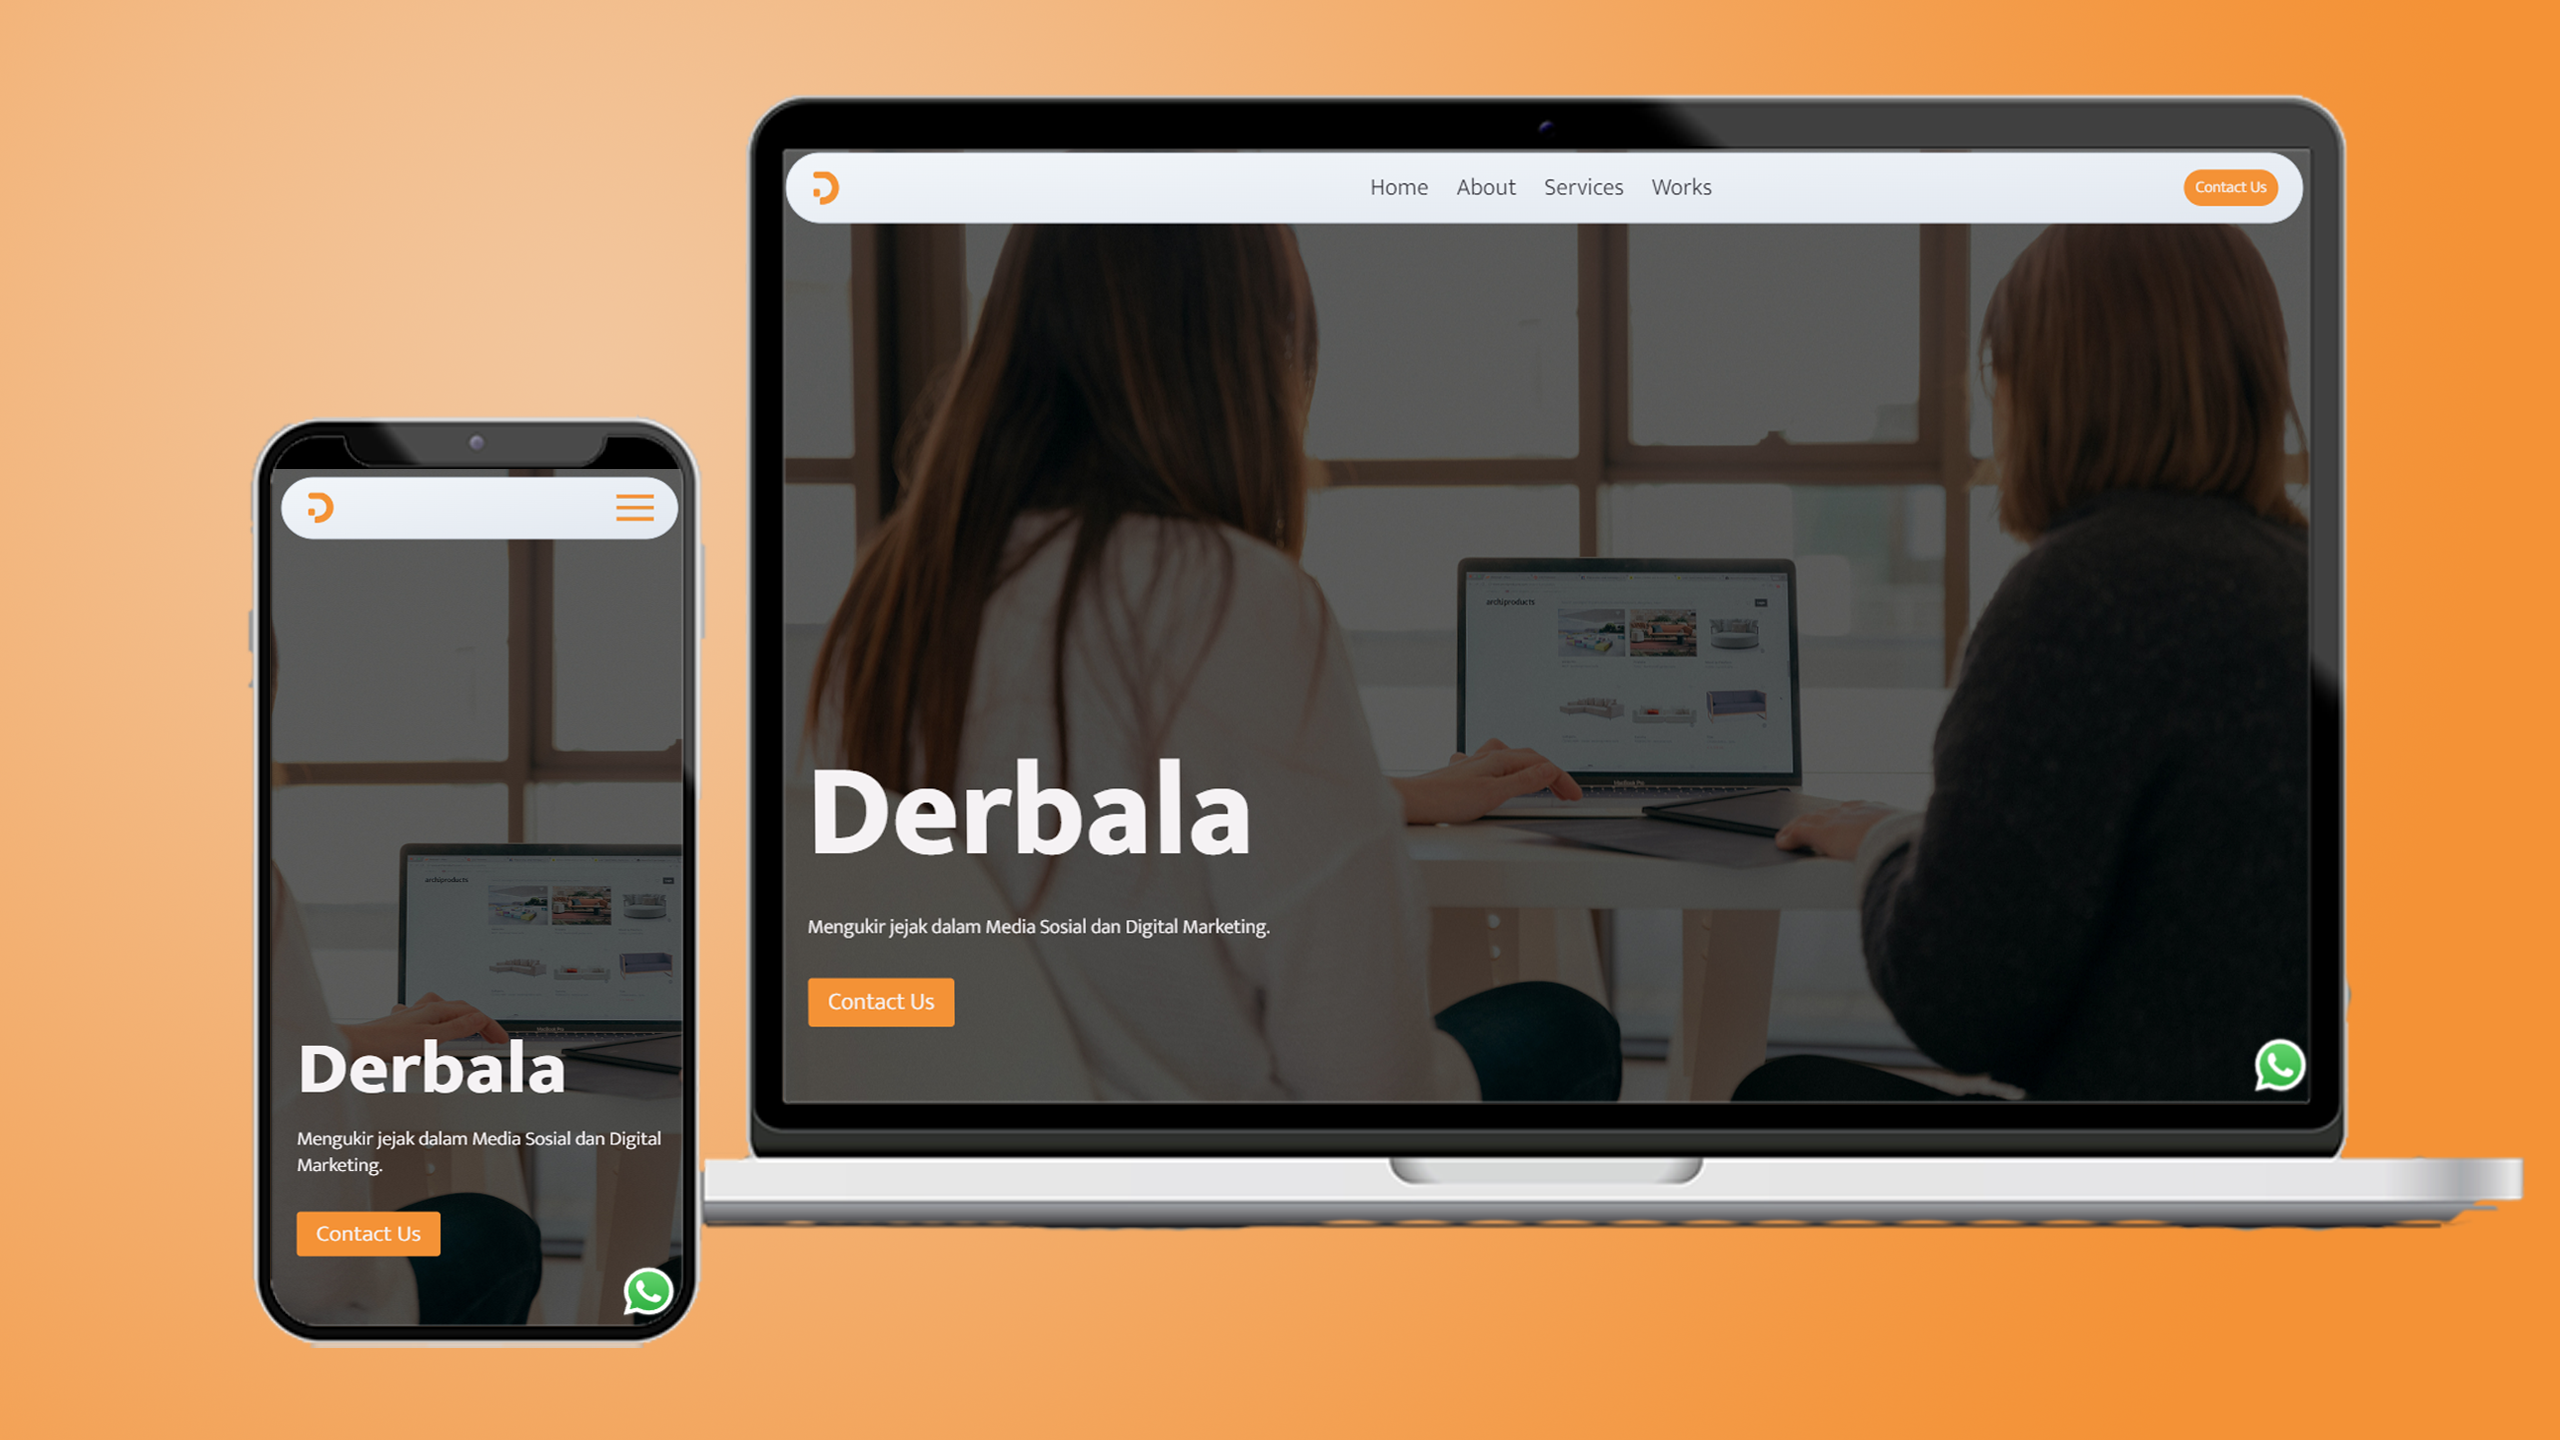
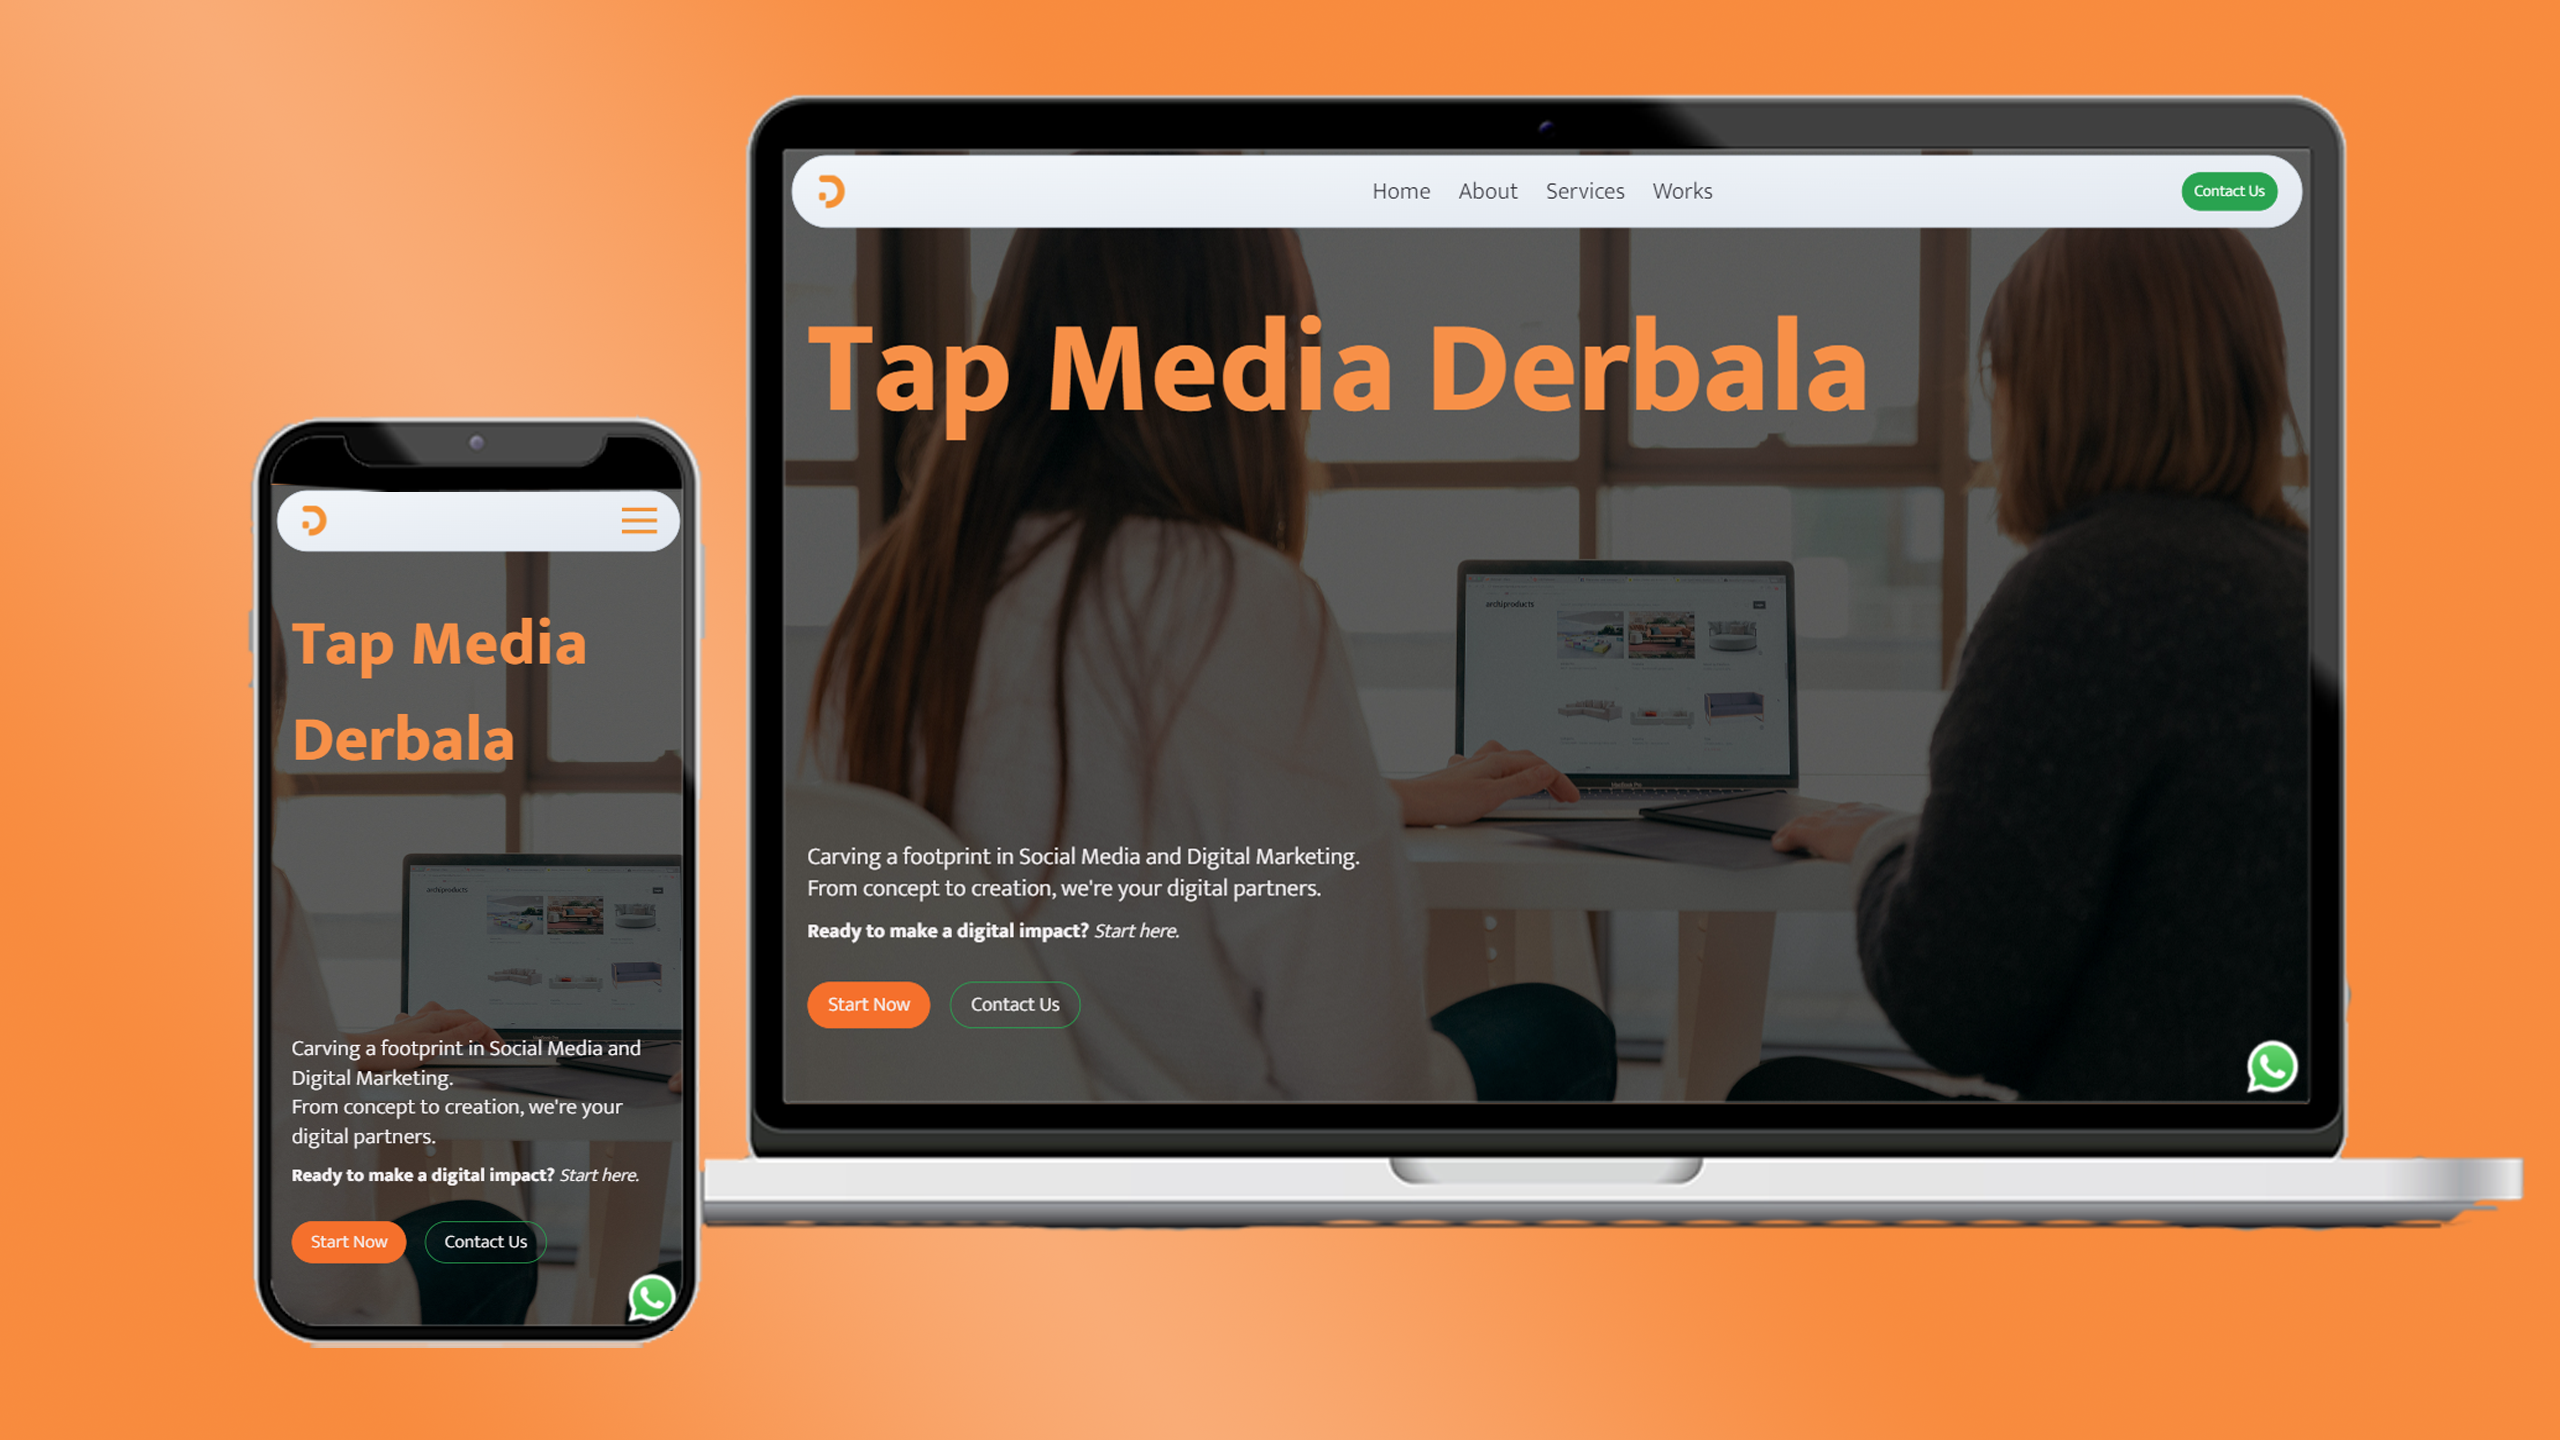
UI Updates

diff --git a/src/app/_components/Misc/Navbar.jsx b/src/app/_components/Misc/Navbar.jsx
@@ -5,6 +5,7 @@ import { useEffect, useState } from "react";
 import { usePathname } from "next/navigation";
 import { motion, stagger, useAnimate } from "framer-motion";
 import Image from "next/image";
+import { Squash as Hamburger } from "hamburger-react";
 
 const staggerMenuItems = stagger(0.1, { startDelay: 0.15 });
 
@@ -46,23 +47,6 @@ const Navbar = () => {
     { name: "home", path: "/" },
     { name: "projects", path: "/projects" },
   ];
-  // const [scaler, setScaler] = useState(1);
-
-  // const { scrollYProgress } = useScroll();
-
-  // useEffect(() => {
-  //   if (scrollYProgress.current > 0.27) {
-  //     setScaler(0.7);
-  //   } else if (scrollYProgress.current < 0.27) {
-  //     setScaler(scrollYProgress.current * 0.038571);
-  //   } else if (scrollYProgress.current == 0) {
-  //     setScaler(1);
-  //   }
-  // }, [scrollYProgress.current]);
-
-  //0 - 0.027
-  //scale 1 - 0.7
-
   return (
     <nav
       className="border-gray-200 bg-gray-900 sticky top-0 z-10 px-5 md:px-24"
@@ -88,35 +72,33 @@ const Navbar = () => {
             Nyoman Lanang
           </span>
         </Link>
-        <button
-          onClick={() => {
-            setIsOpen(!isOpen);
-          }}
-          className="z-20 inline-flex items-center align-middle justify-center text-sm text-gray-500 rounded-lg  focus:outline-none focus:ring-2  
+        <div className="flex w-max gap-5">
+          <button
+            onClick={() => {
+              setIsOpen(!isOpen);
+            }}
+            className="z-20 inline-flex items-center align-middle justify-center text-sm text-gray-500 rounded-lg  focus:outline-none focus:ring-2  
                   
           "
-          // aria-expanded={isOpen ? "true" : "false"}
-        >
-          <span className="bg-clip-text text-transparent bg-gradient-to-br from-orange-300 to-orange-600 text-lg tracking-wider font-extrabold">
-            {isOpen ? "CLOSE" : "MENU"}
-          </span>
-          {/* <span className="sr-only">Open main menu</span>
-          <svg
-            className="w-5 h-5"
-            aria-hidden="true"
-            xmlns="http://www.w3.org/2000/svg"
-            fill="none"
-            viewBox="0 0 17 14"
+            // aria-expanded={isOpen ? "true" : "false"}
           >
-            <path
-              stroke="currentColor"
-              strokeLinecap="round"
-              strokeLinejoin="round"
-              strokeWidth="2"
-              d="M1 1h15M1 7h15M1 13h15"
+            {/* <span className="bg-clip-text text-transparent bg-gradient-to-br from-orange-300 to-orange-600 text-lg tracking-wider font-extrabold">
+              {isOpen ? "CLOSE" : "MENU"}
+            </span> */}
+            <Hamburger
+              toggled={isOpen}
+              toggle={setIsOpen}
+              size={25}
+              color="#f48436"
             />
-          </svg> */}
-        </button>
+          </button>
+          <Link
+            href="mailto:dimasnyoman1@gmail.com"
+            className="hidden md:block border-2 border-teal-400 w-max px-5  py-2 text-sm md:text-base font-semibold lg:font-normal rounded-full text-teal-300 transition duration-300 hover:bg-teal-500 hover:text-black"
+          >
+            Email Me
+          </Link>
+        </div>
       </motion.div>
       <motion.div
         initial={{ opacity: 0 }}

diff --git a/src/app/_components/Home/MainBanner.jsx b/src/app/_components/Home/MainBanner.jsx
@@ -16,10 +16,10 @@ const MainBanner = () => {
   return (
     <div
       style={{ color: "#ECECF9" }}
-      className="bg-gray-900 px-12 align-middle md:px-24 2xl:px-72 lg:min-h-screen"
+      className="bg-gray-900 px-12 align-middle md:px-24 lg:min-h-screen"
     >
-      <div className="lg:flex xl:pt-24">
-        <div className="max-w-screen-xl py-20 mx-auto flex flex-col justify-center">
+      <div className="lg:flex xl:pt-24 gap-3 max-w-screen-xl mx-auto">
+        <div className="py-20 mx-auto flex flex-col justify-center">
           <TextGenerateEffect
             words={words}
             className="text-5xl md:text-8xl font-extrabold mb-4 text-slate-300"
@@ -39,14 +39,14 @@ const MainBanner = () => {
             <div className="flex gap-5 md:flex-row md:gap-5">
               <Link
                 href="#scroll"
-                className="font-semibold border-2 border-orange-400 bg-gradient-to-br from-orange-300 to-orange-600 w-max text-black px-5 mt-6 md:mt-6 py-2 text-sm md:text-base rounded-full hover:bg-blue-100 lg:font-normal transition duration-300"
+                className="font-semibold border-2 border-orange-500 bg-orange-500 w-max text-white px-5 mt-6 md:mt-6 py-2 text-sm md:text-base rounded-full hover:bg-transparent lg:font-normal transition duration-300"
               >
                 Learn More
               </Link>
 
               <Link
                 href="mailto:dimasnyoman1@gmail.com"
-                className="border-2 border-teal-400 w-max px-5 mt-6 md:mt-6 py-2 text-sm md:text-base font-semibold lg:font-normal rounded-full bg-gradient-to-br from-teal-300 to-teal-600 text-black transition duration-300"
+                className="border-2 border-teal-400 w-max px-5 mt-6 md:mt-6 py-2 text-sm md:text-base font-semibold lg:font-normal rounded-full text-teal-300 transition duration-300 hover:bg-teal-500 hover:text-black"
               >
                 Email Me
               </Link>

diff --git a/src/app/_components/Home/WhySection.jsx b/src/app/_components/Home/WhySection.jsx
@@ -36,23 +36,23 @@ const WhySection = () => {
         <h1 className="sticky py-10 text-4xl md:text-6xl font-extrabold md:mb-10 tracking-wider text-white text-center">
           Why Me?
         </h1>
-        <div className="flex flex-wrap lg:flex-row gap-20 justify-center">
+        <div className="flex flex-wrap lg:flex-row gap-20 justify-between">
           {datas.map((item, index) => (
             <div
               key={index}
-              className="flex-1 min-w-[260px] max-w-[260px] mx-auto"
+              className="flex-1 min-w-[260px] max-w-[350px] mx-auto"
             >
               <Image
                 src={item.image}
                 alt={item.title}
                 height={500}
                 width={500}
-                className="object-cover bg-center w-[250px] h-[250px] rounded-xl"
+                className="object-cover bg-cover w-[450px] h-[250px] rounded-xl"
               />
               <h3 className="font-bold text-xl w-fit mt-5 mb-3">
                 {item.title}
               </h3>
-              <p className="text-slate-300 max-w-[260px]">{item.desc}</p>
+              <p className="text-slate-300">{item.desc}</p>
             </div>
           ))}
         </div>

diff --git a/src/app/_components/Projects/ProjectsItem.jsx b/src/app/_components/Projects/ProjectsItem.jsx
@@ -14,7 +14,7 @@ const ProjectsItem = () => {
       {Projects.map((item) => (
         // <div key={item.title}>
         <CardContainer key={item.title} className="inter-var">
-          <CardBody className="relative group/card hover:shadow-2xlhover:shadow-emerald-500/[0.1] bg-slate-900 border-black/[0.1] w-auto sm:w-[30rem] h-auto rounded-xl p-6 border">
+          <CardBody className="relative group/card hover:shadow-2xl hover:shadow-emerald-500/[0.1] bg-slate-900 border-black/[0.1] w-auto h-auto rounded-xl p-6 border">
             <CardItem
               translateZ="50"
               className="text-xl font-bold  text-white line-clamp-1 cursor-pointer"

diff --git a/src/app/_components/Projects/ProjectList.jsx b/src/app/_components/Projects/ProjectList.jsx
@@ -18,7 +18,7 @@ function ProjectList() {
         <h1 className="py-10 text-4xl md:text-5xl lg:text-6xl font-extrabold md:mb-10 tracking-wider text-slate-200 xl:text-center">
           Projects
         </h1>
-        <div className="grid grid-cols-1 flex-1 gap-5 sm:grid-cols-1 lg:grid-cols-2 lg:gap-9 xl:grid-cols-3">
+        <div className="grid grid-cols-1 flex-1 gap-5 sm:grid-cols-1 lg:grid-cols-2 lg:gap-9 2xl:grid-cols-3">
           <ProjectsItem />
         </div>
       </motion.div>

diff --git a/src/app/projects/[slug]/page.jsx b/src/app/projects/[slug]/page.jsx
@@ -31,7 +31,7 @@ export default function Page({ params }) {
           <h1 className="text-4xl text-slate-200  font-bold tracking-wider">
             {found.title}
           </h1>
-          <p className="text-slate-400">Uploaded by Admin</p>
+          <p className="text-slate-400">Uploaded by Nyoman</p>
         </div>
         <div className="relative aspect-video flex-1">
           <Image

diff --git a/src/app/_components/ui/3dCard.jsx b/src/app/_components/ui/3dCard.jsx
@@ -69,7 +69,7 @@ export const CardBody = ({ children, className }) => {
   return (
     <div
       className={cn(
-        "h-96 w-96 [transform-style:preserve-3d]  [&>*]:[transform-style:preserve-3d]",
+        "[transform-style:preserve-3d]  [&>*]:[transform-style:preserve-3d]",
         className
       )}
     >

diff --git a/src/app/_components/Home/FeaturedProject.jsx b/src/app/_components/Home/FeaturedProject.jsx
@@ -13,7 +13,7 @@ const FeaturedProject = () => {
 
   return (
     <div
-      id="projects"
+      id="scroll"
       className="relative bg-dot-white/[0.2] bg-slate-800 text-black px-12 pt-10 pb-20 min-h-screen md:px-24 flex align-middle"
       // className="lg:w-2/3 text-black pt-10 lg:py-32"
     >

diff --git a/src/app/_components/Home/Certifications.jsx b/src/app/_components/Home/Certifications.jsx
@@ -21,7 +21,6 @@ const Certifications = () => {
   ];
   return (
     <div
-      id="scroll"
       className="relative bg-dot-white/[0.2] bg-slate-800 text-black px-12 pt-10 pb-20 min-h-screen md:px-24 flex align-middle"
       // className="lg:w-2/3 text-black pt-10 lg:py-32"
     >

diff --git a/src/app/page.jsx b/src/app/page.jsx
@@ -20,8 +20,8 @@ export default function Home() {
       <Analytics />
 
       <MainBanner />
-      <WhySection />
       <FeaturedProject />
+      <WhySection />
       <Certifications />
       <IntroduceMe />
     </>
